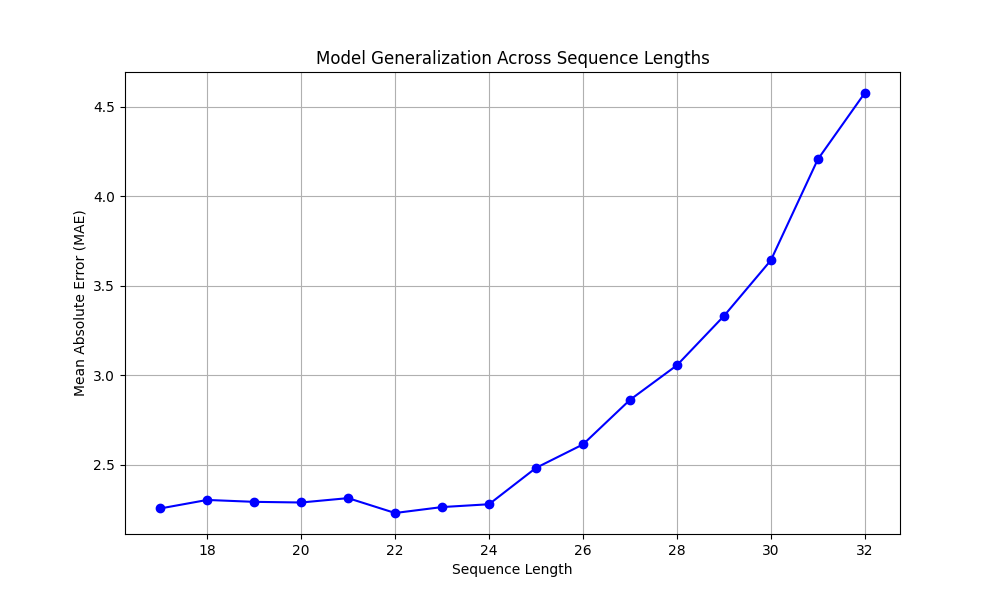
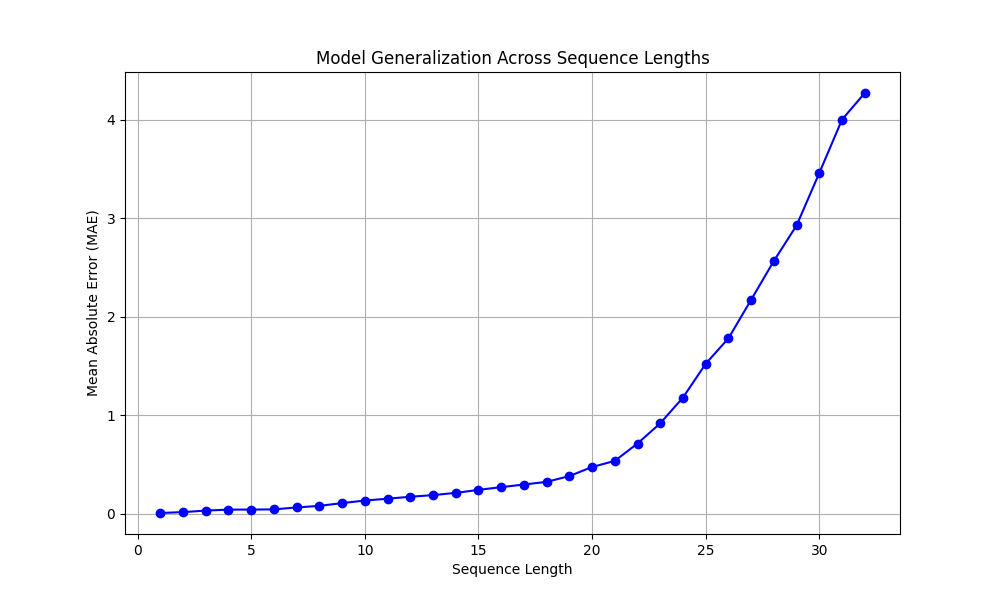
fix val accuracy

diff --git a/assignments/5/a5.py b/assignments/5/a5.py
@@ -10,6 +10,10 @@ from hmmlearn import hmm
 from torch.utils.data import Dataset, DataLoader
 import torch
 import torch.nn as nn
+from tqdm import tqdm
+from PIL import Image, ImageDraw, ImageFont
+from nltk.corpus import words
+
 
 import warnings
 warnings.filterwarnings("ignore", category=UserWarning, module="librosa")
@@ -18,8 +22,8 @@ import sys
 sys.path.append('./../../')
 from models.kde.kde import KDE
 from models.gmm.gmm import Gmm
-from models.rnn.rnn import BitCounterRNN
-from models.rnn.rnn import BitCountingDataset, collate_fn
+from models.rnn.rnn import BitCounterRNN, BitCountingDataset, collate_fn_rnn
+from models.ocr.ocr import OCRModel, OCRDataset, collate_fn_ocr
 
 def kde_fun():
     def generate_synthetic_data():
@@ -195,7 +199,7 @@ def rnn_fun():
             for sequences, labels, lengths in data_loader:
                 sequences, labels, lengths = sequences.to(device), labels.to(device), lengths.to(device)
                 outputs = model(sequences, lengths)
-                loss = criterion(outputs.squeeze(), labels)
+                loss = criterion(outputs.squeeze(), labels.squeeze(-1))
                 total_loss += loss.item() * sequences.size(0)
         return total_loss / len(data_loader.dataset)
 
@@ -208,9 +212,9 @@ def rnn_fun():
     test_dataset = BitCountingDataset(test_data, test_labels)
 
     batch_size = 64
-    train_loader = DataLoader(train_dataset, batch_size=batch_size, shuffle=True, collate_fn=collate_fn)
-    val_loader = DataLoader(val_dataset, batch_size=batch_size, shuffle=False, collate_fn=collate_fn)
-    test_loader = DataLoader(test_dataset, batch_size=batch_size, shuffle=False, collate_fn=collate_fn)
+    train_loader = DataLoader(train_dataset, batch_size=batch_size, shuffle=True, collate_fn=collate_fn_rnn)
+    val_loader = DataLoader(val_dataset, batch_size=batch_size, shuffle=False, collate_fn=collate_fn_rnn)
+    # test_loader = DataLoader(test_dataset, batch_size=batch_size, shuffle=False, collate_fn=collate_fn_rnn)
 
     model = BitCounterRNN(input_size=1, hidden_size=32, num_layers=1)
     criterion = nn.L1Loss()
@@ -218,7 +222,7 @@ def rnn_fun():
 
     device = torch.device("cuda" if torch.cuda.is_available() else "cpu")
     model.to(device)
-    num_epochs = 20
+    num_epochs = 10
 
     for epoch in range(num_epochs):
         model.train()
@@ -237,7 +241,7 @@ def rnn_fun():
         print(f"Epoch [{epoch+1}/{num_epochs}], Train Loss: {train_loss:.4f}, Validation Loss: {val_loss:.4f}")
 
 
-    def generate_out_of_distribution_data(start_len=17, end_len=32, samples_per_length=1000):
+    def generate_out_of_distribution_data(start_len=1, end_len=32, samples_per_length=1000):
         data = []
         labels = []
         for length in range(start_len, end_len + 1):
@@ -250,9 +254,9 @@ def rnn_fun():
 
     ood_data, ood_labels = generate_out_of_distribution_data()
     ood_dataset = BitCountingDataset(ood_data, ood_labels)
-    ood_loader = DataLoader(ood_dataset, batch_size=batch_size, shuffle=False, collate_fn=collate_fn)
+    ood_loader = DataLoader(ood_dataset, batch_size=batch_size, shuffle=False, collate_fn=collate_fn_rnn)
 
-    lengths = list(range(17, 33))
+    lengths = list(range(1, 33))
     mae_per_length = []
 
     for length in lengths:
@@ -260,7 +264,7 @@ def rnn_fun():
         length_labels = [label for seq, label in zip(ood_data, ood_labels) if len(seq) == length]
         
         length_dataset = BitCountingDataset(length_data, length_labels)
-        length_loader = DataLoader(length_dataset, batch_size=batch_size, shuffle=False, collate_fn=collate_fn)
+        length_loader = DataLoader(length_dataset, batch_size=batch_size, shuffle=False, collate_fn=collate_fn_rnn)
         
         mae = evaluate(model, length_loader, criterion, device)
         mae_per_length.append(mae)
@@ -274,6 +278,123 @@ def rnn_fun():
     plt.savefig('./figures/RNN_generalization.png')
     plt.show()
 
+def rnn2_fun():
+    def generate_word_images(word_list, image_dir, image_size=(256, 64)):
+        if not os.path.exists(image_dir):
+            os.makedirs(image_dir)
+        
+        for word in tqdm(word_list, desc="Generating Images"):
+            img = Image.new('L', image_size, color=255)
+            draw = ImageDraw.Draw(img)
+            font = ImageFont.load_default()
+            bbox = draw.textbbox((0, 0), word, font=font)
+            text_width = bbox[2] - bbox[0]
+            text_height = bbox[3] - bbox[1]
+            text_x = (image_size[0] - text_width) // 2
+            text_y = (image_size[1] - text_height) // 2
+            draw.text((text_x, text_y), word, font=font, fill=0)
+            img.save(os.path.join(image_dir, f"{word}.png")) 
+
+    image_dir = "word_images"
+    word_list = words.words()[:10]
+    generate_word_images(word_list, image_dir)
+    def average_correct_characters(preds, labels):
+        total_correct = 0
+        total_chars = 0
+        
+        for pred, label in zip(preds, labels):
+            pred_chars = torch.argmax(pred, dim=1)
+            correct = (pred_chars == label).sum().item()
+            total_correct += correct
+            total_chars += len(label)
+        
+        return total_correct / total_chars
+
+    def train_model(model, train_loader, val_loader, num_epochs=10, learning_rate=0.001, device='cuda'):
+        optimizer = torch.optim.Adam(model.parameters(), lr=learning_rate)
+        criterion = nn.CrossEntropyLoss()
+        
+        model.to(device)
+        train_losses = []
+        val_losses = []
+        val_accuracies = []
+        
+        for epoch in range(num_epochs):
+            model.train()
+            total_train_loss = 0
+            
+            for images, labels, lengths in train_loader:
+                images, labels, lengths = images.to(device), labels.to(device), lengths.to(device)
+                
+                optimizer.zero_grad()
+                outputs, _ = model(images, lengths)
+                
+                outputs = outputs.view(-1, outputs.size(-1))
+                labels = labels.view(-1)
+                
+                loss = criterion(outputs, labels)
+                loss.backward()
+                optimizer.step()
+                total_train_loss += loss.item()
+            
+            avg_train_loss = total_train_loss / len(train_loader)
+            train_losses.append(avg_train_loss)
+            
+            model.eval()
+            total_val_loss = 0
+            total_val_correct_chars = 0
+            
+            with torch.no_grad():
+                for images, labels, lengths in val_loader:
+                    images, labels, lengths = images.to(device), labels.to(device), lengths.to(device)
+                    outputs, _ = model(images, lengths)
+
+                    outputs_flat = outputs.view(-1, outputs.size(-1))
+                    labels_flat = labels.view(-1)
+                    val_loss = criterion(outputs_flat, labels_flat)
+                    total_val_loss += val_loss.item()
+                    
+                    total_val_correct_chars += average_correct_characters(outputs, labels)
+            
+            avg_val_loss = total_val_loss / len(val_loader)
+            avg_val_accuracy = total_val_correct_chars / len(val_loader)
+            
+            val_losses.append(avg_val_loss)
+            val_accuracies.append(avg_val_accuracy)
+            
+            print(f"Epoch {epoch + 1}/{num_epochs} - "
+                f"Train Loss: {avg_train_loss:.4f}, "
+                f"Validation Loss: {avg_val_loss:.4f}, "
+                f"Validation Accuracy (Correct Characters): {avg_val_accuracy:.4f}")
+        
+        return train_losses, val_losses, val_accuracies
+    
+    def load_image(image_path, image_size=(256, 64)):
+        img = Image.open(image_path).convert('L')
+        img = img.resize(image_size)
+        img = np.array(img) / 255.0
+        img = torch.FloatTensor(img).unsqueeze(0).unsqueeze(0)
+        return img
+    
+    def load_images(image_dir):
+        images = []
+        labels = []
+        for image_path in os.listdir(image_dir):
+            image = load_image(os.path.join(image_dir, image_path))
+            images.append(image)
+            label = image_path.split('.')[0]
+        return images, labels
+    
+    data, labels = load_images(image_dir)
+    train_dataset = OCRDataset(data, labels)
+    val_dataset = OCRDataset(data, labels)
+    train_loader = DataLoader(train_dataset, batch_size=64, shuffle=True, collate_fn=collate_fn_ocr)
+    val_loader = DataLoader(val_dataset, batch_size=64, shuffle=False, collate_fn=collate_fn_ocr)
+
+    model = OCRModel(cnn_output_dim=128, rnn_hidden_dim=32, num_classes=100)
+    train_losses, val_losses, val_accuracies = train_model(model, train_loader, val_loader)
+
+    print(train_losses, val_losses, val_accuracies)
 
 
 
@@ -281,21 +402,22 @@ def rnn_fun():
 # kde_fun()
 # hmm_fun()
 # rnn_fun()
+rnn2_fun()
 
-if __name__ == '__main__':
-    while True:
-        print("1. KDE")
-        print("2. HMM")
-        print("3. RNN")
-        print("4. Exit")
-        choice = int(input("Enter your choice: "))
-        if choice == 1:
-            kde_fun()
-        elif choice == 2:
-            hmm_fun()
-        elif choice == 3:
-            rnn_fun()
-        elif choice == 4:
-            break
-        else:
-            print("Invalid choice. Please enter again.")
+# if __name__ == '__main__':
+#     while True:
+#         print("1. KDE")
+#         print("2. HMM")
+#         print("3. RNN")
+#         print("4. Exit")
+#         choice = int(input("Enter your choice: "))
+#         if choice == 1:
+#             kde_fun()
+#         elif choice == 2:
+#             hmm_fun()
+#         elif choice == 3:
+#             rnn_fun()
+#         elif choice == 4:
+#             break
+#         else:
+#             print("Invalid choice. Please enter again.")

diff --git a/models/ocr/ocr.py b/models/ocr/ocr.py
@@ -1,0 +1,64 @@
+import torch
+import torch.nn as nn
+from torch.utils.data import Dataset
+from torch.nn.utils.rnn import pad_sequence, pack_padded_sequence, pad_packed_sequence
+
+class OCRModel(nn.Module):
+    def __init__(self, cnn_output_dim, rnn_hidden_dim, num_classes, dropout_prob=0.5):
+        super(OCRModel, self).__init__()
+
+        self.cnn = nn.Sequential(
+            nn.Conv2d(1, 32, kernel_size=3, stride=1, padding=1),
+            nn.BatchNorm2d(32),
+            nn.ReLU(),
+            nn.MaxPool2d(2, 2),
+            
+            nn.Conv2d(32, 64, kernel_size=3, stride=1, padding=1),
+            nn.BatchNorm2d(64),
+            nn.ReLU(),
+            nn.MaxPool2d(2, 2),
+            
+            nn.Conv2d(64, 128, kernel_size=3, stride=1, padding=1),
+            nn.BatchNorm2d(128),
+            nn.ReLU(),
+            nn.MaxPool2d(2, 2)
+        )
+        
+        self.flatten_dim = (256 // 8) * (64 // 8) * 128
+        self.fc = nn.Linear(self.flatten_dim, cnn_output_dim)
+
+        self.rnn = nn.LSTM(input_size=cnn_output_dim, hidden_size=rnn_hidden_dim, num_layers=2, dropout=dropout_prob, batch_first=True)
+        self.output_layer = nn.Linear(rnn_hidden_dim, num_classes)
+
+    def forward(self, x):
+        batch_size = x.size(0)
+    
+        cnn_features = self.cnn(x)
+        cnn_features = cnn_features.view(batch_size, -1)
+        
+        cnn_features = self.fc(cnn_features)
+        cnn_features = cnn_features.unsqueeze(1).repeat(1, 10, 1)
+        rnn_output, _ = self.rnn(cnn_features)
+        output = self.output_layer(rnn_output)
+        return output
+    
+
+
+class OCRDataset(Dataset):
+    def __init__(self, data, labels):
+        self.data = data
+        self.labels = labels
+
+    def __len__(self):
+        return len(self.data)
+
+    def __getitem__(self, idx):
+        image = torch.FloatTensor(self.data[idx]).unsqueeze(0)
+        label = torch.LongTensor(self.labels[idx])
+        return image, label, len(label)
+    
+def collate_fn_ocr(batch):
+    images, labels = zip(*batch)
+    images = torch.stack(images)
+    labels = torch.stack(labels)
+    return images, labels

diff --git a/models/rnn/rnn.py b/models/rnn/rnn.py
@@ -1,10 +1,8 @@
-import numpy as np
 import torch
 import torch.nn as nn
-from torch.utils.data import Dataset, DataLoader
+from torch.utils.data import Dataset
 from torch.nn.utils.rnn import pad_sequence, pack_padded_sequence, pad_packed_sequence
-from sklearn.model_selection import train_test_split
-import matplotlib.pyplot as plt
+
 
 class BitCountingDataset(Dataset):
     def __init__(self, sequences, labels):
@@ -20,7 +18,7 @@ class BitCountingDataset(Dataset):
         length = len(sequence)
         return sequence, label, length
 
-def collate_fn(batch):
+def collate_fn_rnn(batch):
     sequences, labels, lengths = zip(*batch)
     sequences_padded = pad_sequence(sequences, batch_first=True, padding_value=0)
     labels = torch.stack(labels)
